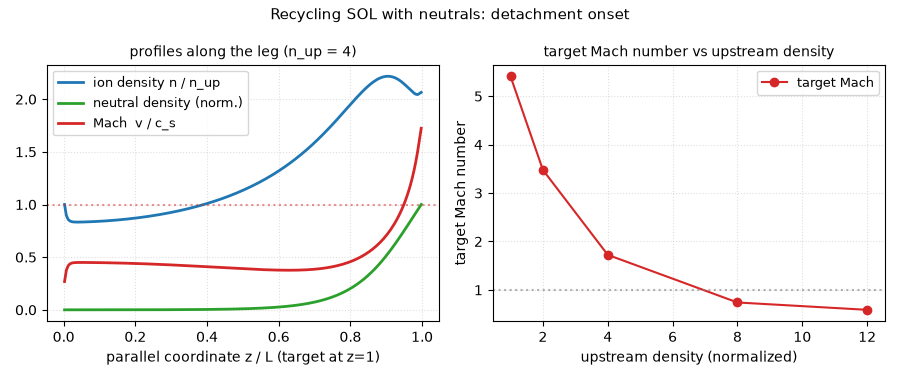
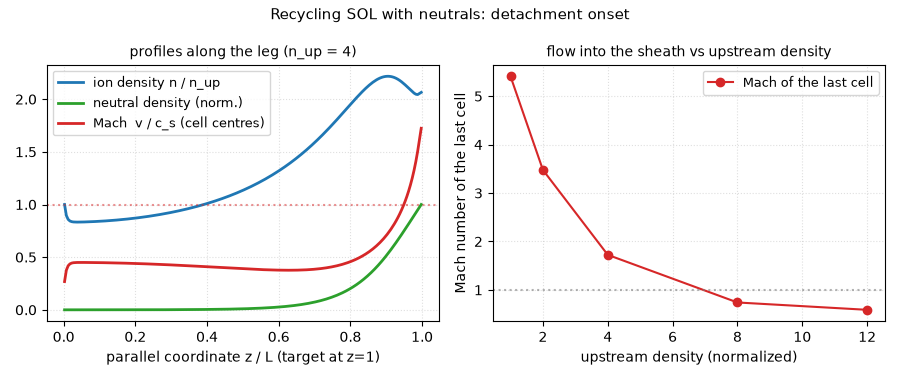
Docs: Bohm face versus cell-centre Mach, FCI wording, HSX defaults note

diff --git a/examples/sol/recycling_sol.py b/examples/sol/recycling_sol.py
@@ -12,9 +12,9 @@ rate fits, while charge exchange + recombination friction drag the ion flow.
 The script first relaxes a reference case and prints per-chunk progress (target
 Mach number, target ion flux, neutral cushion), then scans the upstream density
 and prints one line per scan point: as the density rises, charge-exchange
-friction chokes the flow (target Mach falls toward and below 1) -- the onset of
+friction chokes the flow (the Mach number of the last cell falls below 1; the Bohm sheath face stays at c_s) -- the onset of
 detachment. The left figure panel shows the steady-state parallel profiles; the
-right panel shows the target Mach number across the scan.
+right panel shows the last-cell Mach number across the scan.
 
 Run:
 
@@ -140,7 +140,7 @@ mach = (np.asarray(state.ion_momentum)
         / (ION_MASS * np.maximum(density, params.density_floor))) / sound_speed
 neutral_cushion = float(neutral[-1] / max(neutral[NZ // 2], 1e-9))
 print("== Reference steady state ==")
-print(f"   target Mach = {mach[-1]:.4f} (Bohm-attached would be ~1)")
+print(f"   last-cell Mach = {mach[-1]:.4f}; the Bohm face velocity is max(|v_cell|, c_s) = {max(abs(mach[-1]), 1.0):.4f} c_s")
 print(f"   neutral cushion: n_neutral(target)/n_neutral(midpoint) = {neutral_cushion:.1f}")
 print(f"   target ion flux n c_s = {float(target_ion_flux(state, temperature, params)):.4f}")
 
@@ -159,7 +159,7 @@ for upstream in UPSTREAM_SCAN:
     )
     target_mach.append(float(scan_velocity[-1] / sound_speed[-1]))
     target_flux.append(float(target_ion_flux(scan_state, temperature, scan_params)))
-    print(f"   n_up = {upstream:5.1f}:  target Mach = {target_mach[-1]:.4f},  "
+    print(f"   n_up = {upstream:5.1f}:  last-cell Mach = {target_mach[-1]:.4f},  "
           f"target flux = {target_flux[-1]:.4f},  "
           f"n_neutral(target) = {float(np.asarray(scan_state.neutral_density)[-1]):.3f}")
 print(f"   Mach falls {target_mach[0]:.3f} -> {target_mach[-1]:.3f} across the scan: "
@@ -184,7 +184,7 @@ fig, axes = plt.subplots(1, 2, figsize=(9.0, 3.8))
 ax = axes[0]
 ax.plot(z, density / density[0], color="#1f77b4", lw=2, label="ion density n / n_up")
 ax.plot(z, neutral / neutral.max(), color="#2ca02c", lw=2, label="neutral density (norm.)")
-ax.plot(z, mach, color="#d62728", lw=2, label="Mach  v / c_s")
+ax.plot(z, mach, color="#d62728", lw=2, label="Mach  v / c_s (cell centres)")
 ax.axhline(1.0, color="#d62728", ls=":", alpha=0.5)
 ax.set_xlabel("parallel coordinate z / L (target at z=1)")
 ax.set_title(f"profiles along the leg (n_up = {REFERENCE_DENSITY:g})", fontsize=10)
@@ -192,11 +192,11 @@ ax.legend(fontsize=9, loc="upper left")
 ax.grid(True, ls=":", alpha=0.4)
 
 ax = axes[1]
-ax.plot(UPSTREAM_SCAN, target_mach, "o-", color="#d62728", label="target Mach")
+ax.plot(UPSTREAM_SCAN, target_mach, "o-", color="#d62728", label="Mach of the last cell")
 ax.axhline(1.0, color="gray", ls=":", alpha=0.6)
 ax.set_xlabel("upstream density (normalized)")
-ax.set_ylabel("target Mach number")
-ax.set_title("target Mach number vs upstream density", fontsize=10)
+ax.set_ylabel("Mach number of the last cell")
+ax.set_title("flow into the sheath vs upstream density", fontsize=10)
 ax.grid(True, ls=":", alpha=0.4)
 ax.legend(fontsize=9)
 

diff --git a/examples/sol/open_sol_flux_tube.py b/examples/sol/open_sol_flux_tube.py
@@ -135,7 +135,8 @@ n = np.asarray(density)[0, 0, :]
 mach = (np.asarray(momentum)[0, 0, :] / n) / SOUND_SPEED
 upstream = n[len(n) // 2]
 print("== Two-point steady state reached ==")
-print(f"   Bohm criterion: Mach at targets = {mach[0]:+.4f}, {mach[-1]:+.4f} (expect -1, +1)")
+print(f"   last-cell-centre Mach = {mach[0]:+.4f}, {mach[-1]:+.4f}; the Bohm condition acts on the target face, "
+      f"where |v| = max(|v_cell|, c_s) = {max(abs(mach[0]), 1.0):.4f} c_s")
 print(f"   n_target / n_upstream = {n[-1] / upstream:.4f} (two-point prediction: 0.5)")
 
 # ----------------------------------------------------------------------------
@@ -161,7 +162,8 @@ print(f"   current balance residual    = {float(sheath.current_balance_residual)
 # ----------------------------------------------------------------------------
 summary = {
     "parallel_length": PARALLEL_LENGTH,
-    "mach_at_targets": [float(mach[0]), float(mach[-1])],
+    "mach_last_cell_at_targets": [float(mach[0]), float(mach[-1])],
+    "mach_sheath_face": [-max(abs(float(mach[0])), 1.0), max(abs(float(mach[-1])), 1.0)],
     "n_target_over_upstream": float(n[-1] / upstream),
     "total_target_ion_loss": float(sheath.total_ion_particle_loss),
     "total_recycled_source": float(sheath.total_recycled_particle_source),
@@ -175,12 +177,12 @@ print(f"wrote {OUTPUT_DIR / 'summary.json'}")
 fig, axes = plt.subplots(1, 2, figsize=(12.5, 4.8))
 ax = axes[0]
 ax.plot(z, n / upstream, color="#1f77b4", lw=2, label="density  n / n_upstream")
-ax.plot(z, mach, color="#d62728", lw=2, label="Mach  v / c_s")
+ax.plot(z, mach, color="#d62728", lw=2, label="Mach  v / c_s (cell centres)")
 ax.axhline(0.5, color="#1f77b4", ls=":", alpha=0.6)
 ax.axhline(1.0, color="#d62728", ls=":", alpha=0.6)
 ax.axhline(-1.0, color="#d62728", ls=":", alpha=0.6)
 ax.set_xlabel("parallel coordinate z (connection length)")
-ax.set_title("SOL two-point profile: stagnation -> Mach 1 at the targets")
+ax.set_title("SOL two-point profile: stagnation -> near Mach 1 at the targets")
 ax.legend(loc="center left", fontsize=8)
 ax.grid(True, ls=":", alpha=0.4)
 

diff --git a/README.md b/README.md
@@ -114,12 +114,13 @@ geometry. About 7 min on a laptop CPU.
 python examples/stellarator/stellarator_3d_render.py
 ```
 
-## FCI parallel operators
+## FCI parallel gradient on the rotating ellipse
 
 Parallel derivatives come from field-line tracing and interpolation on a grid
-that is not field aligned. On the non-axisymmetric rotating-ellipse metric,
-both the direct and the traced-field-line parallel gradients converge at
-second order (measured orders 2.02 and 1.99 between 16^3 and 48^3), and the
+that is not field aligned. On the rotating-ellipse geometry (nested flux
+surfaces, no wall), the parallel gradient b·∇f converges at second order
+(measured orders 2.02 direct and 1.99 traced between 16^3 and 48^3). This
+tests the bulk only; the wall, where FCI is harder, is not included. The
 operator is differentiable with respect to the shape. About 40 s.
 
 <img src="docs/media/rotating_ellipse_fci.png" width="700" alt="Rotating-ellipse FCI convergence">
@@ -185,14 +186,18 @@ additionally needs the QA `wout` from an ESSOS checkout:
 ## Sheath-bounded SOL, neutrals and detachment
 
 On open field lines, parallel transport to Bohm-sheath targets relaxes to the
-two-point steady state (`examples/sol/open_sol_flux_tube.py`: Mach 0.94 at the
-targets, target-to-upstream density ratio 0.49; two-point theory gives 1 and
-0.5). With fluid neutrals (AMJUEL ionization, recombination and charge
-exchange) and recycling, raising the upstream density chokes the target flow:
-the Mach number at the target falls through 1 between upstream densities of 4
-and 8 in normalized units.
+two-point steady state (`examples/sol/open_sol_flux_tube.py`: target-to-upstream
+density ratio 0.49; two-point theory gives 0.5). The Bohm condition is imposed on
+the target face, where the flux uses |v| = max(|v_cell|, c_s), so the flow at the
+sheath entrance is at least c_s by construction. The Mach number printed and
+plotted is that of the last cell centre (0.94 here), half a cell upstream of the
+face; it can be below 1. With fluid neutrals (AMJUEL ionization, recombination
+and charge exchange) and recycling, raising the upstream density chokes the flow
+into the sheath: the Mach number of the last cell falls through 1 between
+upstream densities of 4 and 8 in normalized units, while the face keeps the
+c_s floor and the target flux stays n c_s.
 
-<img src="docs/media/recycling_sol.png" width="700" alt="Recycling SOL profiles and target Mach number">
+<img src="docs/media/recycling_sol.png" width="700" alt="Recycling SOL profiles and last-cell Mach number">
 
 ```bash
 python examples/sol/recycling_sol.py      # under 10 s
@@ -299,15 +304,17 @@ connection length to the wall on the same plane.
 <img src="docs/media/hsx_geometry.png" width="800" alt="HSX coils, Poincare section and connection length">
 
 The `drbx.fci_braginskii` backend evolves a density filament in the
-scrape-off layer up to the vessel wall. It has a Bohm sheath wall closure by
-default, with optional neutrals and recycling (deck keys `wall_closure`,
-`neutrals`, `recycling`; see [docs/decks.md](docs/decks.md)). The first run is
-`drbx run examples/inputs/hsx_fci_blob.toml`, which builds a 16^3 geometry from
-the shipped coils and vessel (about 4 min on a laptop). The movie is a 32^3 run
-(600 steps, t = 0.45 in L_ref/c_s, peak n - 1 = 0.8, rho* = 5e-3, zero-flow walls;
-about 35 min on one A4000). With the Bohm default, 32^3 runs of this kind stopped
-with an invalid IMEX stage after t = 0.10 to 0.14 (several amplitudes, rho* values
-and time steps; under investigation), so the movie uses the zero-flow closure. It shows isosurfaces of the density perturbation along the
+scrape-off layer up to the vessel wall. It uses a Bohm sheath wall
+closure by default, with implicit Spitzer-Harm parallel conduction
+(`parallel_conduction = "auto"`, on with the Bohm wall) and optional neutrals
+and recycling (deck keys `wall_closure`, `parallel_conduction`, `neutrals`,
+`recycling`; see [docs/decks.md](docs/decks.md)). The default HSX deck is
+verified to t = 0.6 at 16^3 only; 32^3 runs with these defaults are still under
+investigation. The first run is `drbx run examples/inputs/hsx_fci_blob.toml`,
+which builds a 16^3 geometry from the shipped coils and vessel (about 4 min on
+a laptop). The movie predates the Bohm and conduction defaults: it is a 32^3 run
+(600 steps, t = 0.45 in L_ref/c_s, peak n - 1 = 0.8, rho* = 5e-3, zero-flow
+walls; about 35 min on one A4000) and will be re-rendered with the defaults. It shows isosurfaces of the density perturbation along the
 field over the boundary surface, with R-Z sections of density and potential
 through the filament. The potential builds up as a dipole around the filament
 within the first t = 0.05. The filament itself stays close to its flux surface
